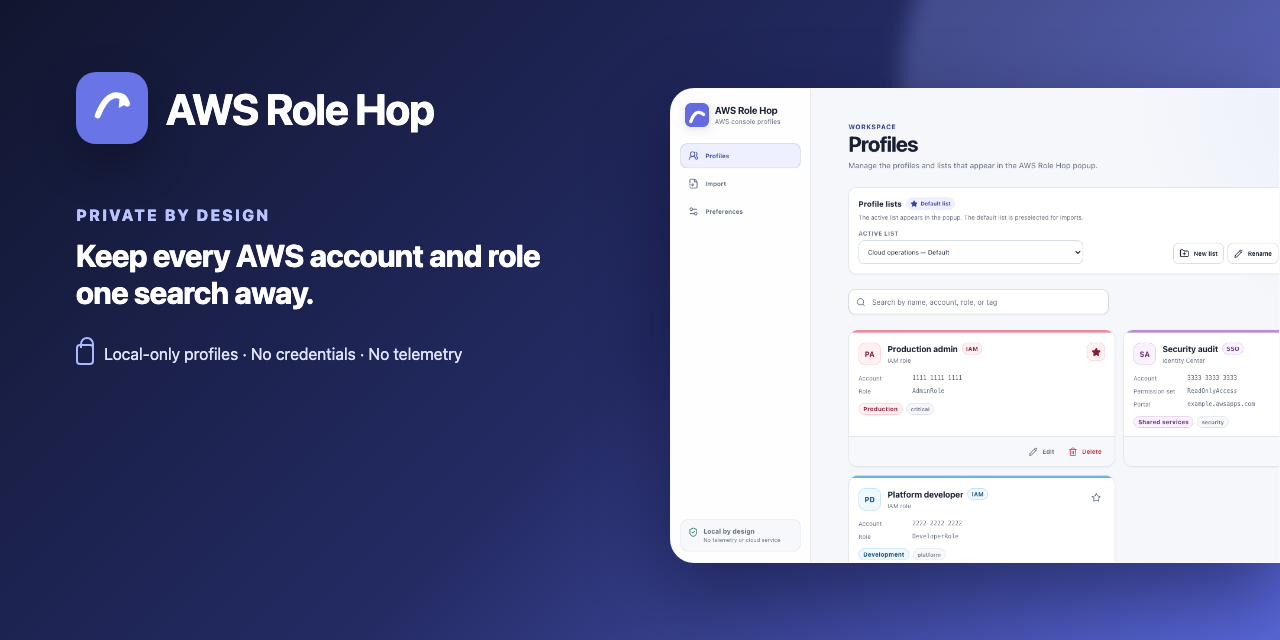
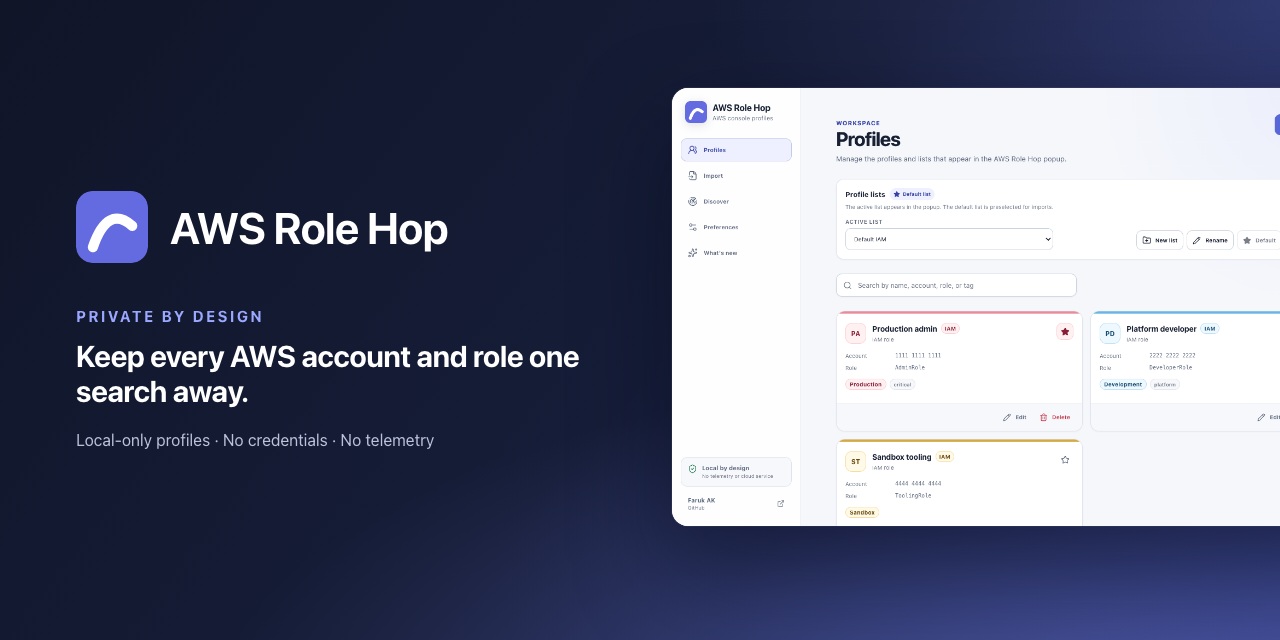
docs: refresh screenshots and promotional art for 0.2.0

diff --git a/src/entrypoints/popup/popup.css b/src/entrypoints/popup/popup.css
@@ -486,6 +486,7 @@ body {
 
 .popup-mode-switch {
   display: grid;
+  margin: 0 16px 10px;
   grid-template-columns: 1fr 1fr;
   gap: 4px;
   padding: 4px;
@@ -524,6 +525,7 @@ body {
 
 .popup-mode-hint {
   display: flex;
+  margin: 0 16px 10px;
   gap: 8px;
   align-items: center;
   justify-content: space-between;
@@ -554,6 +556,7 @@ body {
 
 .portal-scan {
   display: grid;
+  margin: 0 16px 10px;
   gap: 10px;
   padding: 12px;
   background: var(--color-surface);
@@ -620,6 +623,7 @@ body {
 }
 
 .popup-notice {
+  margin: 0 16px 10px;
   padding: 8px 11px;
   font-size: 0.78rem;
   color: var(--color-success);
@@ -628,7 +632,7 @@ body {
 }
 
 .popup-guidance {
-  margin: 0;
+  margin: 0 16px 10px;
   font-size: 0.75rem;
   line-height: 1.4;
   color: var(--color-text-tertiary);

diff --git a/README.md b/README.md
@@ -2,7 +2,7 @@
 
 AWS Role Hop is a fast, private profile launcher for the AWS Management Console. It keeps IAM roles and IAM Identity Center permission sets searchable without storing credentials or reading AWS Console pages.
 
-> AWS Role Hop is under active development and has not been published to browser stores yet.
+> **[Install from the Chrome Web Store](https://chromewebstore.google.com/detail/aws-role-hop/oemhdcinifpcgdbffhojpbjflpgbbhcb)** — also works in Brave and other Chromium browsers. Edge, Firefox, and Safari builds are produced from the same source; see [Browser support](#browser-support).
 
 [![CI](https://github.com/farukak/aws-role-hop/actions/workflows/ci.yml/badge.svg)](https://github.com/farukak/aws-role-hop/actions/workflows/ci.yml)
 [![License: Apache-2.0](https://img.shields.io/badge/License-Apache_2.0-blue.svg)](LICENSE)
@@ -17,6 +17,7 @@ AWS Role Hop is a fast, private profile launcher for the AWS Management Console.
 - IAM role profiles for the standard AWS, AWS GovCloud (US), and AWS China partitions
 - AWS IAM Identity Center shortcuts with optional landing regions
 - Discovery of Identity Center accounts and permission sets from your AWS access portal, behind a permission the browser only asks for when you use it
+- Separate default lists per access path, so IAM and SSO profiles never mix
 - Unlimited named profile lists with explicit active and default-list behavior
 - Automatic or manually selected low-saturation pastel colors, with distinct production and staging treatments
 - Favorites, recent profiles, tags, account masking, and keyboard-first search
@@ -28,9 +29,13 @@ AWS Role Hop is a fast, private profile launcher for the AWS Management Console.
 
 ## Screenshots
 
-| Profiles                                                                                    | Import                                                                                    |
-| ------------------------------------------------------------------------------------------- | ----------------------------------------------------------------------------------------- |
-| [![Searchable AWS profile lists](docs/assets/01-profiles.png)](docs/assets/01-profiles.png) | [![Credential-safe profile import](docs/assets/02-import.png)](docs/assets/02-import.png) |
+| Popup                                                                                    | Profiles                                                                                    |
+| ---------------------------------------------------------------------------------------- | ------------------------------------------------------------------------------------------- |
+| [![Keyboard-first profile launcher](docs/assets/06-popup.png)](docs/assets/06-popup.png) | [![Searchable AWS profile lists](docs/assets/01-profiles.png)](docs/assets/01-profiles.png) |
+
+| Import                                                                                    | Discover                                                                                                        |
+| ----------------------------------------------------------------------------------------- | --------------------------------------------------------------------------------------------------------------- |
+| [![Credential-safe profile import](docs/assets/02-import.png)](docs/assets/02-import.png) | [![Identity Center discovery from the access portal](docs/assets/05-discover.png)](docs/assets/05-discover.png) |
 
 | Preferences                                                                                                   | What's new                                                                                   |
 | ------------------------------------------------------------------------------------------------------------- | -------------------------------------------------------------------------------------------- |
@@ -46,6 +51,7 @@ AWS Role Hop requests `storage`, `activeTab`, and narrowly scoped access to supp
 - AWS access keys, secret keys, session tokens, credential processes, and token files are excluded from imports.
 - There is no analytics, telemetry, account system, backend, or remotely hosted code.
 - Identity Center navigation uses [AWS IAM Identity Center shortcut links](https://docs.aws.amazon.com/singlesignon/latest/userguide/createshortcutlink.html).
+- Reading accounts and permission sets from an AWS access portal requires an **optional** permission the browser asks for only when you start discovery. The lookup runs in a portal tab using the session already there; no cookie or token is read or stored, and the permission can be withdrawn at any time.
 - IAM role launches start from the authenticated AWS Console tab. A content script limited to supported Console origins passes the selected account, role, display name, landing region, and AWS Role Hop color to a bundled page-context bridge. The bridge reads AWS's own sign-in endpoint, multi-session metadata, and ephemeral CSRF value, then submits AWS's native switch-role POST directly. No intermediate Switch Role page is opened. AWS controls authentication, authorization, role-history persistence, and the final redirect.
 - AWS Role Hop does not read browser cookies or credentials. The CSRF value and Console metadata are used only in memory for the requested switch and are not stored, logged, or sent anywhere except AWS's validated sign-in endpoint.
 - Production profiles require a separate AWS Role Hop confirmation by default.
@@ -70,15 +76,19 @@ AWS Role Hop supports current stable browser releases. Store signing, listing as
 
 Safari uses the same WebExtension source, followed by [Apple's Safari extension packaging flow](https://developer.apple.com/safari/extensions/). Browser-specific manifests are generated by [WXT](https://wxt.dev/guide/essentials/target-different-browsers).
 
+### Install from a browser store
+
+Chrome and Brave: **[AWS Role Hop on the Chrome Web Store](https://chromewebstore.google.com/detail/aws-role-hop/oemhdcinifpcgdbffhojpbjflpgbbhcb)**. The store build updates itself.
+
 ### Install an unpacked development build
 
-No signed store build is available yet. To evaluate AWS Role Hop locally:
+To evaluate an unreleased change locally:
 
 1. Install Node.js 24 and run `npm ci`.
 2. Run `npm run build:chrome`.
 3. Open `chrome://extensions`, enable **Developer mode**, select **Load unpacked**, and choose `.output/chrome-mv3`.
 
-Unpacked builds are unsigned and do not auto-update. Firefox can load `.output/firefox-mv3/manifest.json` temporarily from `about:debugging`; Safari requires Apple's conversion, signing, and packaging flow. Use signed browser-store builds when they become available.
+Unpacked builds are unsigned and do not auto-update. Firefox can load `.output/firefox-mv3/manifest.json` temporarily from `about:debugging`; Safari requires Apple's conversion, signing, and packaging flow. Prefer the signed store build for everyday use.
 
 ## Releases and updates
 

diff --git a/STORE_LISTING.md b/STORE_LISTING.md
@@ -165,7 +165,7 @@ IAM switching test with a reviewer-owned AWS test account:
 Required before submission:
 
 - 128×128 store icon: generated as `icons/128.png` in the package.
-- Four current 1280×800 screenshots using only fictional account data are tracked in `docs/assets/`.
+- Five current 1280×800 screenshots using only fictional account data are tracked in `docs/assets/`: `01-profiles.png`, `02-import.png`, `03-preferences.png`, `04-whats-new.png`, and `05-discover.png`. `06-popup.png` shows the popup itself and is used in the README.
 - Small promotional tile: `docs/assets/store-promo-440x280.png` (440×280).
 - Marquee image: `docs/assets/store-marquee-1400x560.png` (1400×560).
 - GitHub social preview: `docs/assets/social-preview.png` (1280×640).
